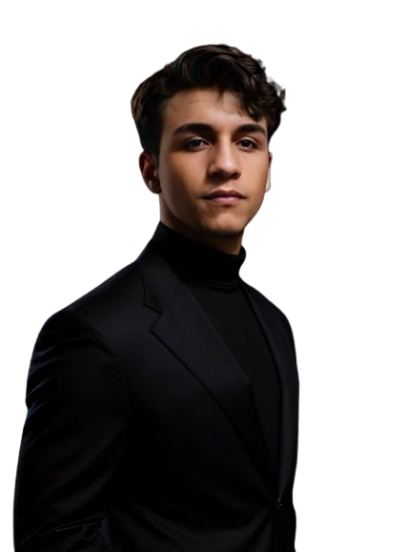
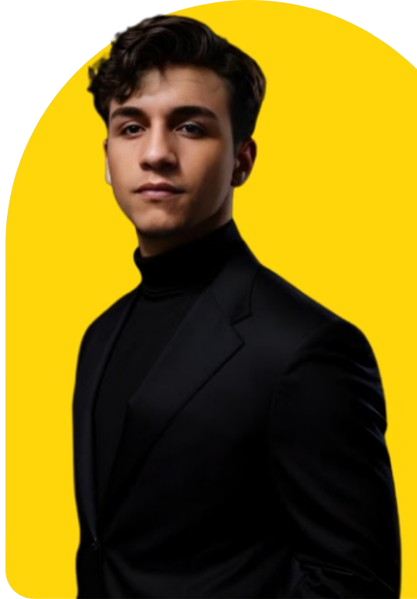
feat: implement responsive menu with overlay and toggle functionality

diff --git a/styles.css b/styles.css
@@ -9,7 +9,7 @@
 
     &:focus {
         outline: none;
-        opacity: .7;
+        opacity: .8;
     }
 }
 
@@ -113,6 +113,10 @@ header {
         justify-content: center;
         gap: 1rem;
 
+        & #menu-fechar {
+            display: none;
+        }
+
         & a {
             position: relative;
             display: flex;
@@ -152,6 +156,14 @@ header {
                 width: 50%;
             }
         }
+    }
+
+    & #btn-menu {
+        display: none;
+    }
+
+    & .overlay {
+        display: none;
     }
 }
 
@@ -260,7 +272,6 @@ header {
 #sobre {
     display: flex;
     align-items: center;
-    height: calc(100dvh - 5rem);
     background-color: var(--cinza-claro);
     position: relative;
 
@@ -291,6 +302,7 @@ header {
 
         & .container {
             display: flex;
+            flex-wrap: wrap;
             gap: 1rem;
             width: 100%;
 
@@ -353,23 +365,9 @@ header {
     }
 
     & img {
-        position: absolute;
-        bottom: 0;
-        right: 0;
         height: 100%;
-        z-index: 5;
-    }
-
-    &::after {
-        content: "";
-        height: 100%;
-        width: 35%;
-        background-color: var(--cor-principal);
-        position: absolute;
-        border-radius: 50% 0 0 10%;
-        bottom: 0;
         right: 0;
-        z-index: 0;
+        position: absolute;
     }
 }
 
@@ -610,7 +608,6 @@ header {
                     background-color: var(--cinza-claro);
                     border: none;
                     border-radius: var(--borda-redonda);
-                    font-size: 1.2rem;
                     padding: .5rem;
                     cursor: pointer;
                     position: relative;
@@ -619,6 +616,8 @@ header {
 
                     & span {
                         position: relative;
+                        font-size: 1.2rem;
+                        font-weight: bolder;
                         z-index: 5;
                     }
 
@@ -684,7 +683,7 @@ footer {
 }
 
 /* responsividade */
-@media screen and (max-width: 768px) {
+@media screen and (max-width: 800px) {
 
     /* geral */
     header,
@@ -695,12 +694,84 @@ footer {
 
     .tags {
         justify-content: center;
+
+        & p {
+            font-size: .8rem;
+        }
     }
 
     /* header */
     header {
+        & a {
+            font-size: 1rem;
+        }
+
         & nav {
-            display: none;
+            position: fixed;
+            background-color: var(--preto);
+            flex-direction: column;
+            justify-content: flex-start;
+            top: 0;
+            right: 0;
+            height: 100%;
+            width: 0%;
+            visibility: hidden;
+            padding: 1rem;
+            z-index: 1000;
+            overflow-x: auto;
+            transition: .5s ease all;
+
+            & #menu-fechar {
+                display: block;
+                background-color: transparent;
+                border: none;
+                color: var(--cor-principal);
+                font-size: 2rem;
+                align-self: flex-start;
+                cursor: pointer;
+            }
+
+            & a {
+                font-size: 1.5rem;
+                width: 100%;
+                justify-content: flex-start;
+
+                &:hover {
+                    background-color: var(--preto-claro);
+                    padding: .5rem;
+                    border-radius: var(--borda-quadrada);
+                }
+            }
+
+            &.active {
+                width: 80%;
+                visibility: visible;
+            }
+        }
+
+        & #btn-menu {
+            display: block;
+            background-color: transparent;
+            border: none;
+            color: var(--cor-principal);
+            font-size: 2.5rem;
+            cursor: pointer;
+        }
+
+        & .overlay {
+            display: block;
+            position: fixed;
+            visibility: hidden;
+            left: 0;
+            top: 0;
+            background-color: #000000c9;
+            height: 100%;
+            width: 100%;
+            z-index: 500;
+
+            &.active {
+                visibility: visible;
+            }
         }
     }
 
@@ -713,49 +784,66 @@ footer {
         & .txt-hero {
             width: 100%;
             text-align: justify;
+            font-size: 1.1rem;
 
             & h2 {
-                font-size: 2.5rem;
+                font-size: 2rem;
                 text-align: center;
 
                 & span {
-                    font-size: 3rem;
+                    font-size: 2.8rem;
                 }
             }
 
             & a {
                 width: 100%;
+                padding: .5em;
             }
         }
 
         & img {
-            width: 80%;
+            width: 15rem;
         }
     }
 
     /* sobre */
     #sobre {
-        height: auto;
-
         & .txt-sobre {
             width: 100%;
             text-align: justify;
 
+            & h2 {
+                text-align: center;
+                font-size: 2rem;
+            }
+
+            & .info {
+                font-size: 1.5rem;
+            }
+
+            & h3 {
+                font-size: 1.5rem;
+            }
+
             & .container {
-                overflow-x: auto;
                 height: auto;
+
+                & i {
+                    font-size: 2rem;
+                }
+            }
+
+            & p {
+                font-size: 1.2rem;
             }
 
             & a {
                 width: 100%;
+                padding: .5rem;
             }
         }
 
         & img {
-            display: none;
-        }
-
-        &::after {
             display: none;
         }
     }
@@ -766,9 +854,22 @@ footer {
         display: none;
     }
 
+    #projetos {
+
+        & h2,
+        span {
+            font-size: 2rem;
+        }
+    }
+
+
     /* contato */
     #contato {
         height: auto;
+
+        & h2 {
+            font-size: 2rem;
+        }
 
         & .container-contato {
             flex-direction: column;
@@ -777,6 +878,17 @@ footer {
             & .left {
                 width: 100%;
                 height: auto;
+
+                & p {
+                    font-size: 1.2rem;
+                }
+
+                & .links {
+
+                    & a {
+                        font-size: 1rem;
+                    }
+                }
             }
 
             & .right {

diff --git a/index.html b/index.html
@@ -42,12 +42,15 @@
         <a href="index.html">
             <h1><span>&lt</span>WALYSSON<span>&#47&gt</span></h1>
         </a>
-        <nav>
+        <nav id="menu">
+            <button id="menu-fechar" onclick="fecharMenu()"><i class="bi bi-x-lg"></i></button>
             <a href="#"><i class="bi bi-house-fill"></i> INÍCIO</a>
             <a href="#sobre"><i class="bi bi-person-fill"></i> SOBRE MIM</a>
             <a href="#projetos"><i class="bi bi-lightbulb-fill"></i> PROJETOS</a>
             <a href="#contato"><i class="bi bi-envelope-fill"></i> CONTATO</a>
         </nav>
+        <button id="btn-menu" onclick="abrirMenu()"><i class="bi bi-list"></i></button>
+        <div class="overlay"></div>
     </header>
     <section id="hero">
         <div class="txt-hero efeito">
@@ -102,7 +105,7 @@
     </section>
     <img class="borda" src="img/wave-haikei-baixo.svg" alt="Borda de ondas">
     <section class="efeito" id="projetos">
-        <h2>Meus <span>Projetos</span></h2>
+        <h2>Meus <span>Projetos!</span></h2>
         <div class="swiper">
             <div class="swiper-wrapper">
                 <div class="swiper-slide">
@@ -265,6 +268,7 @@
     <script src="js/carrosel.js"></script>
     <script src="js/efeito.js"></script>
     <script src="js/efeito_digitar.js"></script>
+    <script src="js/menu.js"></script>
 </body>
 
 </html>

diff --git a/js/menu.js b/js/menu.js
@@ -1,0 +1,16 @@
+const menu = document.getElementById('menu');
+const overlay = document.querySelector('.overlay');
+
+function abrirMenu() {
+    menu.classList.add('active');
+    overlay.classList.add('active');
+}
+
+function fecharMenu() {
+    menu.classList.remove('active');
+    overlay.classList.remove('active');
+}
+
+overlay.addEventListener('click', () => {
+    fecharMenu();
+});
